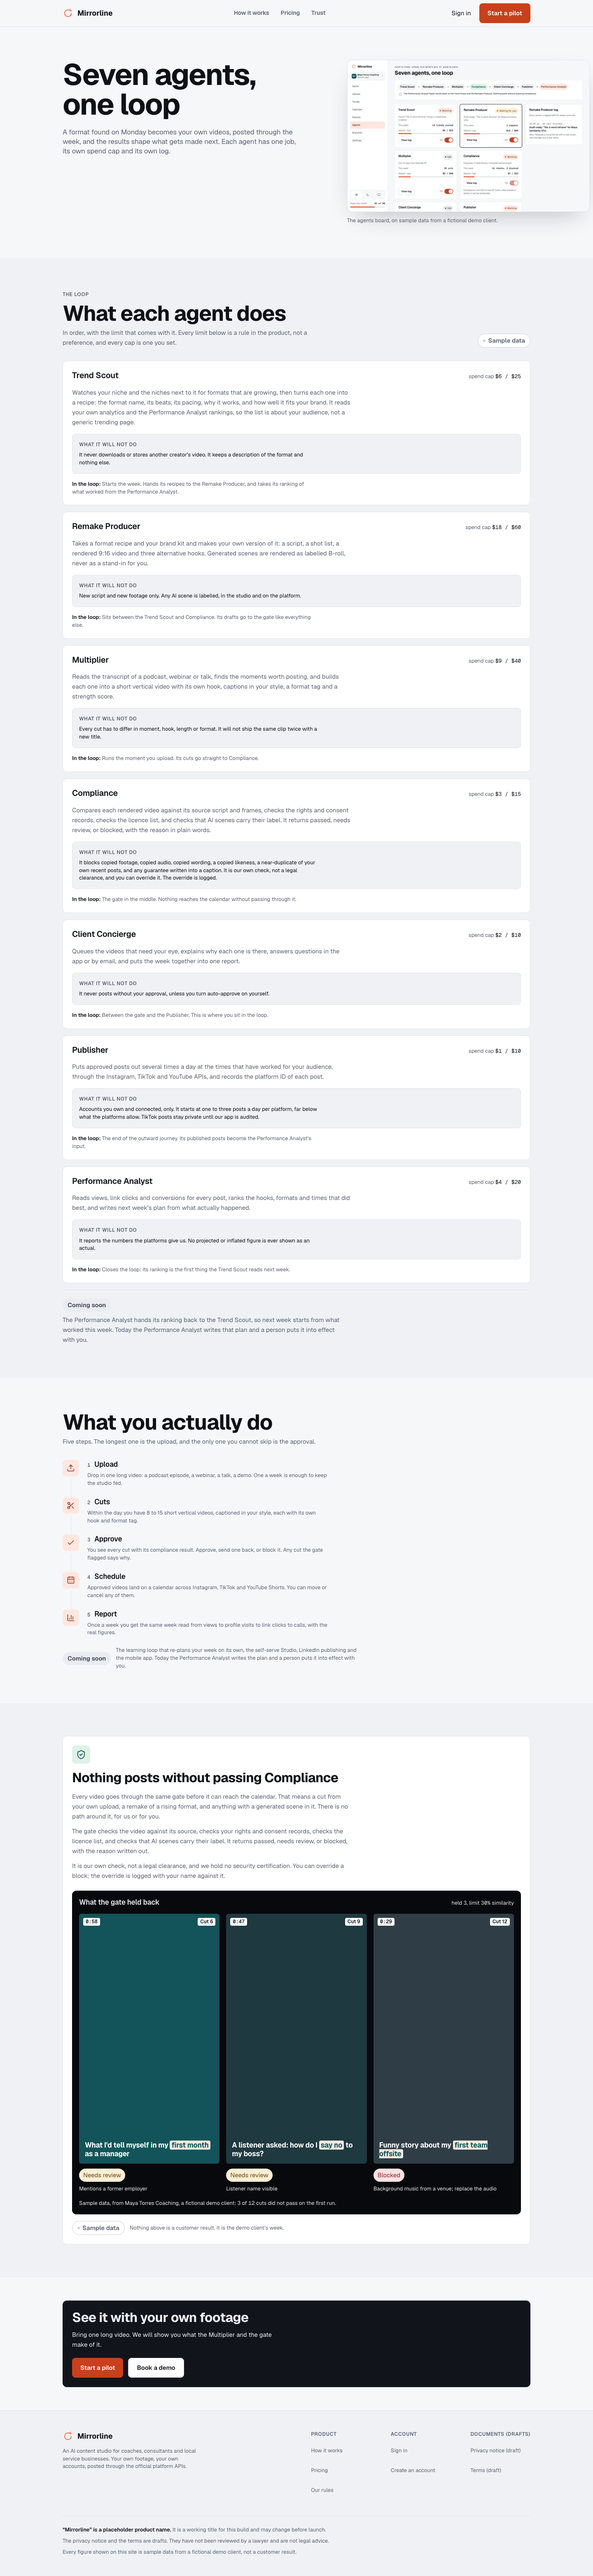
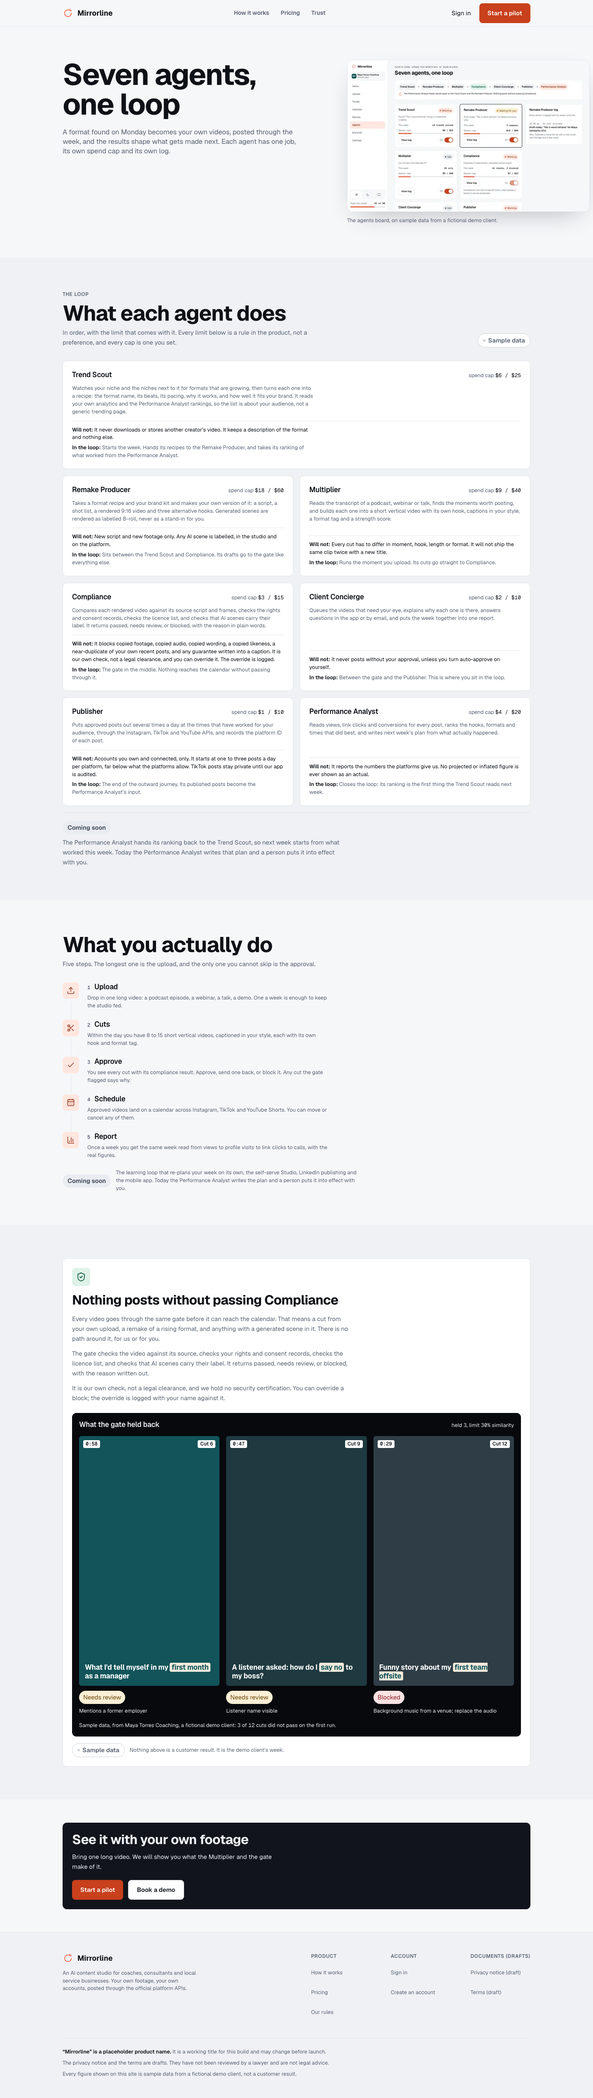
design: how-it-works agent list stops being seven identical slabs
Seven full-width cards, each holding a card. A card inside a card is
always one card too many, and that nested panel was the main reason this
page ran to six thousand pixels.

Now a two-column grid. Trend Scout takes the full width because it is
where the loop starts, which also makes the remaining six pair off
exactly: seven items in two columns otherwise leaves an orphan cell.

The limit moved out of its panel and onto a hairline, and mt-auto pins it
to the bottom of each card so the rule lands on the same line across a
row however long the prose above it runs.

Page height 5987px to 5090px. Nothing was cut from the copy: every agent
still carries what it does, what it will not do, and where it sits.

Gates: lint, typecheck, 229 unit, 94 E2E, build, licence-check green.
The theme no-flash test failed on the first run after a rebuild and
passed warm, which is the dev-server compile race already documented.

diff --git a/apps/web/app/(marketing)/how-it-works/page.tsx b/apps/web/app/(marketing)/how-it-works/page.tsx
@@ -101,17 +101,29 @@ export default function HowItWorksPage() {
           lead="In order, with the limit that comes with it. Every limit below is a rule in the product, not a preference, and every cap is one you set."
           aside={<SampleDataLabel />}
         />
-        <ol className="mt-8 flex list-none flex-col gap-4 p-0">
-          {PUBLIC_AGENTS.map((agent) => {
+        <ol className="mt-8 m-0 grid list-none grid-cols-1 gap-4 p-0 sm:grid-cols-2">
+          {PUBLIC_AGENTS.map((agent, position) => {
             const budget = AGENT_BUDGETS.get(agent.id)
+            const isFirst = position === 0
 
             return (
-              <Card as="li" key={agent.id} padding="lg" className="flex flex-col gap-4">
+              <Card
+                as="li"
+                key={agent.id}
+                className={cn(
+                  'reveal flex flex-col gap-3',
+                  // Seven items in a two-column grid leaves an orphan. The
+                  // first agent takes the full width instead: it is where the
+                  // loop starts, so the one that is different is the one that
+                  // earns it, and the remaining six pair off exactly.
+                  isFirst && 'sm:col-span-2',
+                )}
+              >
                 {/* No "Step N of 7" counter: the <ol> already carries the order
                     for assistive tech, and the agents are introduced in sequence
                     on the page. A counter on every card is furniture. */}
                 <div className="flex flex-wrap items-baseline justify-between gap-x-4 gap-y-1">
-                  <h3 className="m-0 font-heading text-title text-text">{agent.name}</h3>
+                  <h3 className="m-0 font-heading text-subtitle text-text">{agent.name}</h3>
                   {budget ? (
                     <p className="m-0 text-meta text-text-muted">
                       spend cap{' '}
@@ -122,17 +134,26 @@ export default function HowItWorksPage() {
                   ) : null}
                 </div>
 
-                <p className="m-0 max-w-[68ch] text-body text-text-muted">{agent.does}</p>
+                <p className="m-0 max-w-[68ch] text-meta text-text-muted">{agent.does}</p>
 
-                <div className="flex flex-col gap-1.5 rounded-md border border-border bg-surface-subtle p-4">
-                  <h4 className="eyebrow m-0">What it will not do</h4>
-                  <p className="m-0 max-w-[68ch] text-meta text-text">{agent.limit}</p>
+                {/* The limit used to sit in a panel inside the card. A card
+                    inside a card is always one card too many, and it was the
+                    main reason this page ran to six thousand pixels. A
+                    hairline separates it just as well.
+
+                    mt-auto pins this to the bottom, so the dividing rule lands
+                    on the same line across a row whatever the prose above it
+                    does. */}
+                <div className="mt-auto flex flex-col gap-1.5 border-t border-border pt-3">
+                  <p className="m-0 max-w-[68ch] text-meta text-text">
+                    <span className="font-semibold">Will not: </span>
+                    {agent.limit}
+                  </p>
+                  <p className="m-0 max-w-[68ch] text-meta text-text-muted">
+                    <span className="font-semibold text-text">In the loop: </span>
+                    {agent.inLoop}
+                  </p>
                 </div>
-
-                <p className="m-0 max-w-[68ch] text-meta text-text-muted">
-                  <span className="font-semibold text-text">In the loop: </span>
-                  {agent.inLoop}
-                </p>
               </Card>
             )
           })}
